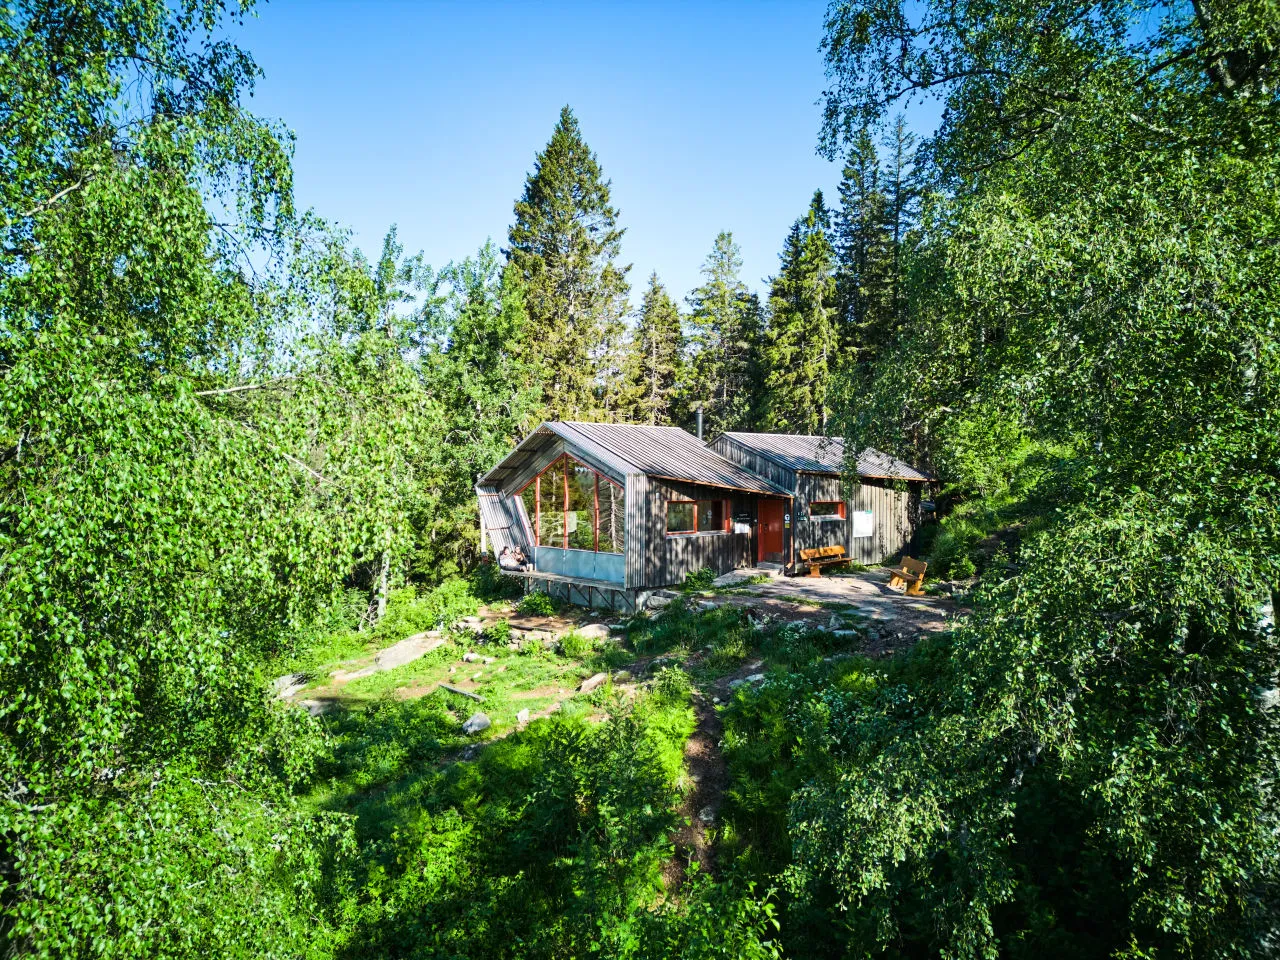
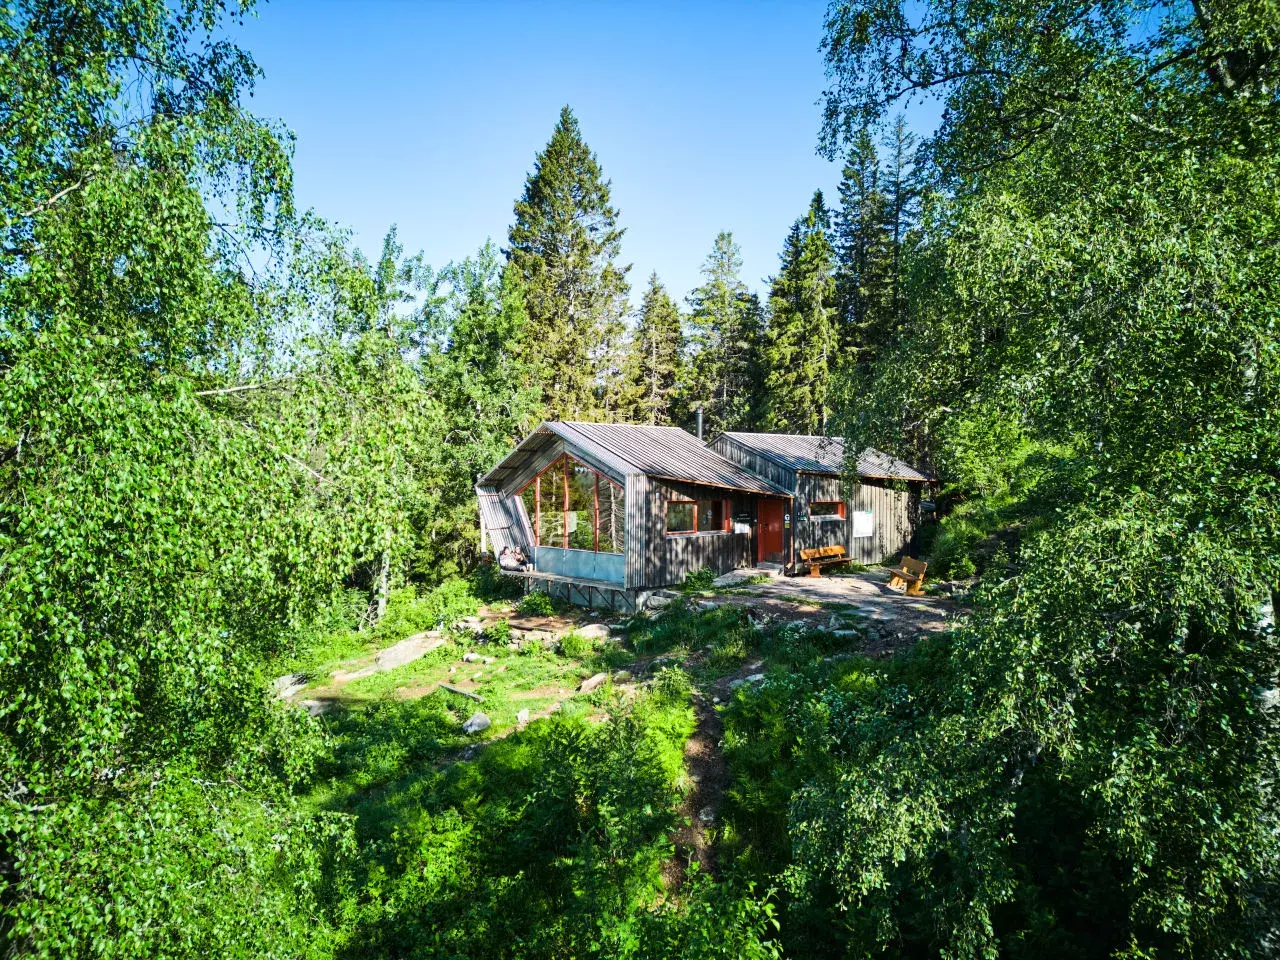
Optimized image sizes, and changed to the proper font

diff --git a/css/stylesheet.global.css b/css/stylesheet.global.css
@@ -1,5 +1,7 @@
 :root {
+  background-color: #E8F8F9;
   --oslometgul: #ffd500;
+  font-family:  "Moderat Regular","Helvetica", "Sans-Serif";
 }
 
 /* Importing Fonts */
@@ -112,10 +114,8 @@ footer {
 
   .student-stories-button {
     width: 100%;
-    height: 3em;
-    padding-left: 1em;
-    padding-bottom: 1em;
-    padding-top: 1em;
+    
+    
   }
 
 }
@@ -219,14 +219,7 @@ footer {
     grid-template-columns: 1fr 1fr 1fr 1fr;
   }
 
-  .student-stories-button {
-    width: 15em;
-    height: 3em;
-    padding-left: 2em;
-    padding-bottom: 2em;
-    padding-top: 2em;
-  }
-
+  
 }
 
 
@@ -349,18 +342,35 @@ label>svg>path:nth-child(1) {
 
 /* Start of Activity Specific Styling */
 
+/* Phone Screen Scaling */
+@media all and (max-width: 680px) {
+
+  .activity-image-group > picture > * {
+    width: 100%;
+  }
+}
 /* Widescreen Scaling */
 @media all and (min-width: 680px) {
 
+  .main-activity-image{
+    margin-top: 1rem;
+    display: flex;
+    width: 100%;
+    justify-content: center;
+  }
+  .activity-image-group {
+    display: grid;
+    justify-content: center;
+    grid-template-columns: minmax(0,auto) minmax(0,auto);
+  
+  }
 }
 
 .activity-button-group {
   display: flex;
-  gap: 3em;
-  flex-wrap: wrap;
+  gap: 1em;
+
 }
-
-.activity-image-group {
-  display: inline-block;
-
+.main-activity-image > img{
+  margin-top: 1rem;
 }

diff --git a/activity.html b/activity.html
@@ -14,11 +14,11 @@
 
     </header>
     <main>
-        <picture>
+        <picture class="main-activity-image" >
             <source srcset="images/utno/fuglemyrhytta_small.webp" media="(max-width: 680px)" width="100%">
             <source srcset="images/utno/fuglemyrhytta_medium.webp" media="(max-width: 920px)" width="100%">
             <img src="images/utno/fuglemyrhytta.webp" alt="Bilde av Fuglemyrhytta tatt av fotograf Daniel Jacobsen"
-                width="50%">
+            >
         </picture>
 
         <h1>Fuglemyrhytta</h1>
